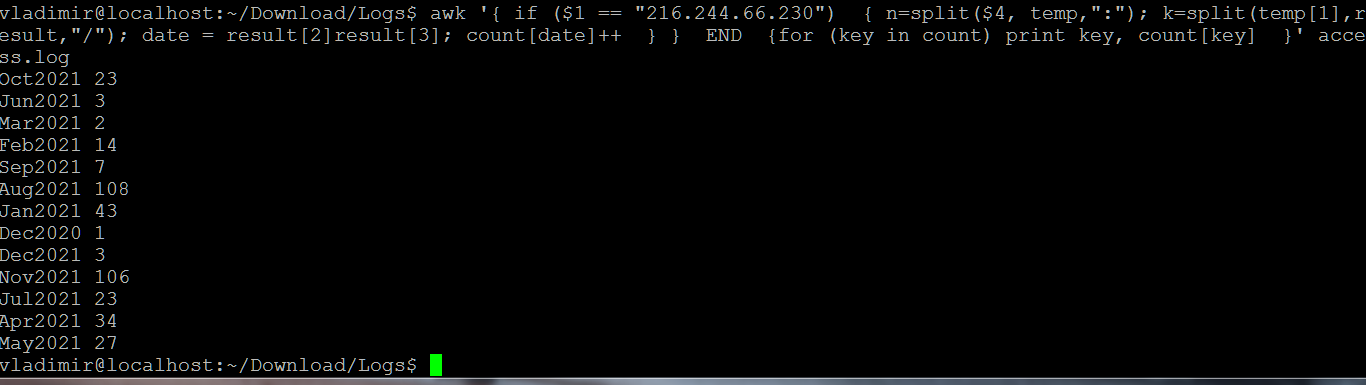
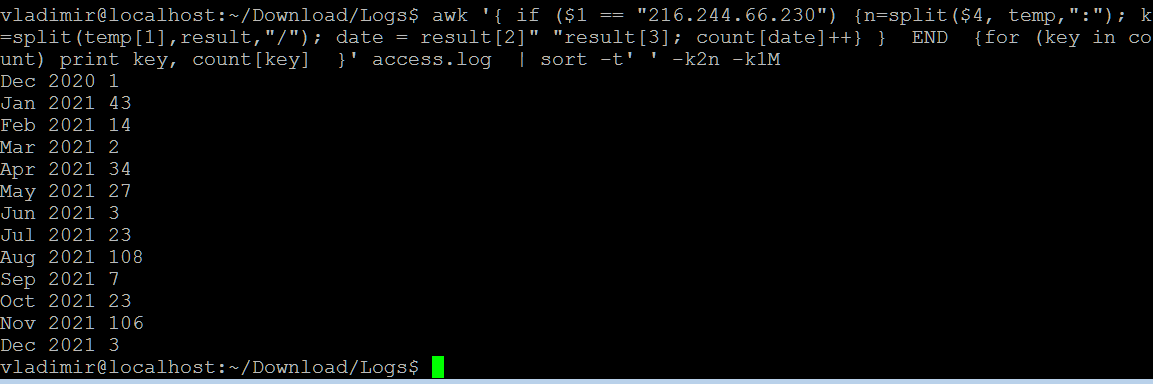
Homework 5-6 fixes

Changed region(s): [[0.0, 0.0, 1.0, 1.0]]

diff --git a/hw5-6/README.md b/hw5-6/README.md
@@ -3,14 +3,15 @@
 - Вопрос 1:  
   "What is the most frequent browser?"  
   
-  _Command:_ __awk -F\" '{print $6}' access.log | awk -F"/" '{$1;a[$1]++} END {for (i in a) print i,a[i]}' | sort -b -n -k2 -r__  
+  _Command:_ __awk -F\" '{print $6}' access.log | awk -F"/" '{$1;a[$1]++} END {for (i in a) print i,a[i]}' | sort -b -n -k2 -r | head -1__  
   _Result:_  
   ![1.1](img/1.1.png)
+  ![1.01](img/1.01.png)
   
 - Вопрос 2:  
   "Show number of requests per month for ip 216.244.66.230 (for example: Sep 2016 - 100500 reqs, Oct 2016 - 0 reqs, Nov 2016 - 2 reqs...)"  
   
-  _Command:_ __awk '{ if ($1 == "216.244.66.230") {n=split($4, temp,":"); k=split(temp[1],result,"/"); date = result[2]result[3]; count[date]++} }  END  {for (key in count) print key, count[key]  }' access.log__    
+  _Command:_ __awk '{ if ($1 == "216.244.66.230") {n=split($4, temp,":"); k=split(temp[1],result,"/"); date = result[2]result[3]; count[date]++} }  END  {for (key in count) print key, count[key]  }' access.log  | sort -t' ' -k2n -k1M__    
   _Result:_  
   ![1.2](img/1.2.png)  
     
@@ -27,16 +28,17 @@
 - Вопрос 1:  
   "Change all browsers to "lynx""  
   
-  _Command:_ __sed 's/"\ ".\+"\ /"\ "lynx"\ /g' access.log > out.log__  
+  _Command:_ __sed 's/"\ ".\\+"\ /"\ "lynx"\ /g' access.log > out.log__  
   _Result:_  
   ![2.1](img/2.1.png)
   
 - Вопрос 2:  
-  "Masquerade all ip addresses. Rewrite file."  
+  "Masquerade all ip addresses. Rewrite file."  __UPDATED: change *pattern* and check it on test.log__
   
-  _Command:_   __sed -i 's/[0-9]\+\.[0-9]\+\.[0-9]\+\.[0-9]\+/192.168.0.1/g' access.log__  
+  _Command:_   __sed -i -E 's/^([0-9]{1,3}.{0,1}){4}/192.168.0.1/g' access.log__  
   _Result:_  
-  ![2.2](img/2.2.png)  
+  ![2.2](img/2.2.png) 
+  ![2.02](img/2.02.png)  
 
 
  
